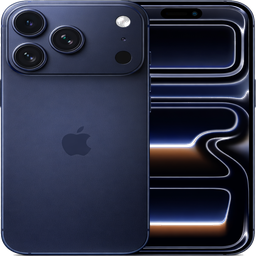
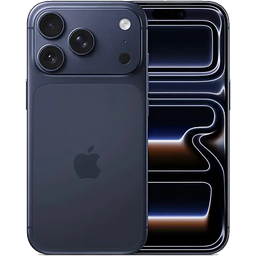
fix: swap iPhone 17 series image to Pro Max render

diff --git a/src/app/page.tsx b/src/app/page.tsx
@@ -23,7 +23,7 @@ function Logo({ size = "md" }: { size?: "sm" | "md" | "lg" }) {
 type Step = "select" | "issue" | "time" | "confirm";
 
 const IPHONE_SERIES = [
-  { id: "17", label: "iPhone 17", year: "2025", frame: "#1C1C1E", accent: "#00c853", notch: "dynamic", cameras: 3, edges: "round", image: "/iphone17.png?v=2",
+  { id: "17", label: "iPhone 17", year: "2025", frame: "#1C1C1E", accent: "#00c853", notch: "dynamic", cameras: 3, edges: "round", image: "/iphone17.png?v=3",
     variants: [
       { id: "iphone17", label: "iPhone 17", size: '6.1"' },
       { id: "iphone17plus", label: "iPhone 17 Plus", size: '6.7"' },
